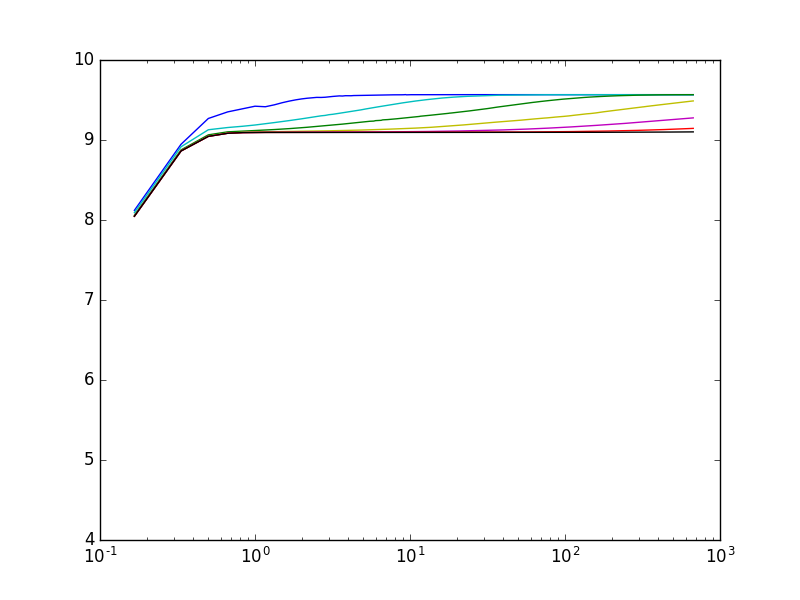
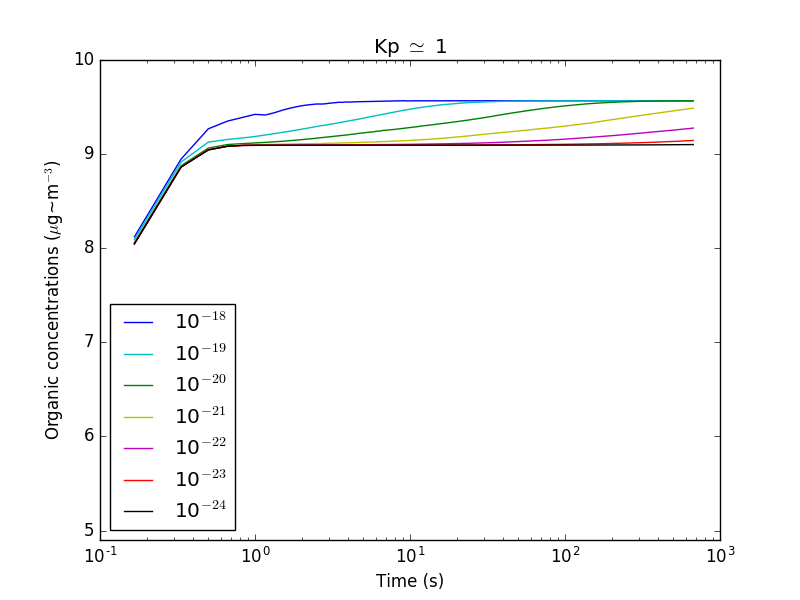
Minor correction for making graphs.
- line to import atmopy is removed.
 - references figures are revised.
 - initial t0 in conc_visco_soalp.py should not be zero to avoid log(0).

diff --git a/graph/conc_visco_soalp.py b/graph/conc_visco_soalp.py
@@ -8,7 +8,6 @@ from math import *
 from pylab import *
 from numpy import *
 import numpy as np
-from atmopy import *
 import matplotlib.pyplot as plt
 # Turn interactive plotting off
 plt.ioff()
@@ -41,8 +40,8 @@ for i in range(len(values)) :
 	tmp = values[i].split('   ', -1)[0]              
         values[i] = float(values[i])   
         visco2.append(float(values[i]))
-        t.append(t0)
         t0=t0+deltat*1./3600
+        t.append(t0)
 
 with open (namefic3+species1) as f1 :
 	values = f1.read().splitlines()
@@ -109,8 +108,5 @@ semilogx(t,visco8,'k',label='10$^{-24}$')
 title("Kp $\simeq$ 100")
 xlabel('Time (s)')
 ylabel('Organic concentrations ($\mu$g~m$^{-3}$)')
-legend(loc ='best')	
+legend(loc ='best')
 savefig("visco_soalp.png")
-
-
-

diff --git a/graph/conc_visco_poalp.py b/graph/conc_visco_poalp.py
@@ -8,7 +8,6 @@ from math import *
 from pylab import *
 from numpy import *
 import numpy as np
-from atmopy import *
 import matplotlib.pyplot as plt
 # Turn interactive plotting off
 plt.ioff()

diff --git a/graph/conc_visco_poamp.py b/graph/conc_visco_poamp.py
@@ -8,7 +8,6 @@ from math import *
 from pylab import *
 from numpy import *
 import numpy as np
-from atmopy import *
 import matplotlib.pyplot as plt
 # Turn interactive plotting off
 plt.ioff()
